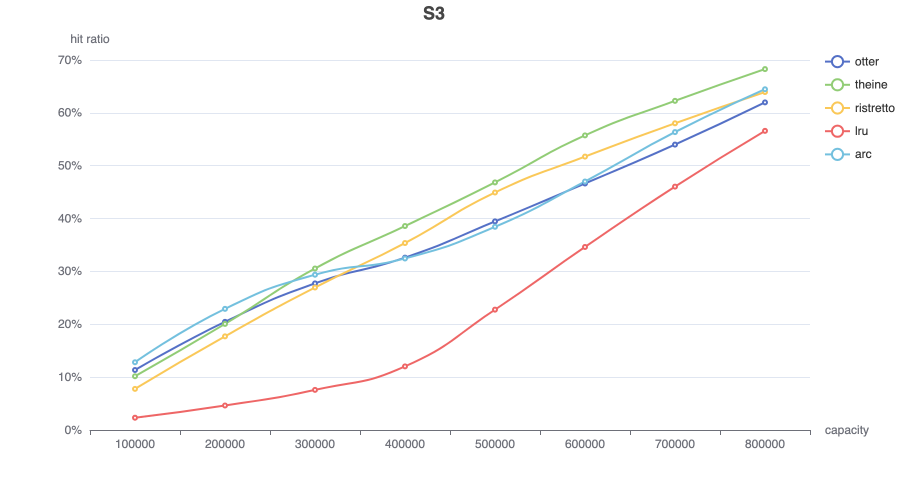
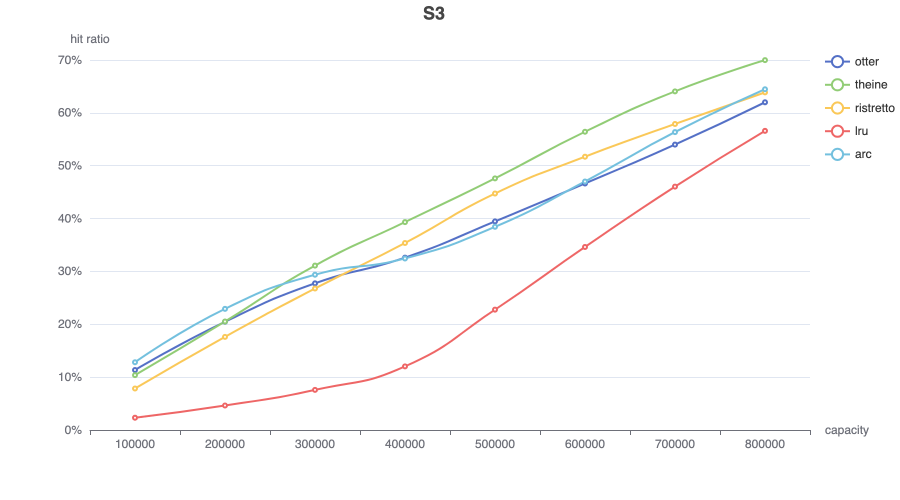
improve sketch index select (#54)

diff --git a/internal/sketch.go b/internal/sketch.go
@@ -56,14 +56,15 @@ func (s *CountMinSketch) CountMinSketchPersist() *CountMinSketchPersist {
 }
 
 // indexOf return table index and counter index together
-func (s *CountMinSketch) indexOf(h uint64, block uint64, offset uint8) (uint, uint) {
-	counterHash := h + uint64(1+offset)*(h>>32)
+func (s *CountMinSketch) indexOf(counterHash uint64, block uint64, offset uint8) (uint, uint) {
+	h := counterHash >> (offset << 3)
 	// max block + 7(8 * 8 bytes), fit 64 bytes cache line
-	index := block + counterHash&1 + uint64(offset<<1)
-	return uint(index), uint((counterHash & 0xF) << 2)
+	index := block + h&1 + uint64(offset<<1)
+	return uint(index), uint((h >> 1) & 0xf)
 }
 
 func (s *CountMinSketch) inc(index uint, offset uint) bool {
+	offset = offset << 2
 	mask := uint64(0xF << offset)
 	v := s.Table[index].Load()
 	if v&mask != mask {
@@ -74,13 +75,13 @@ func (s *CountMinSketch) inc(index uint, offset uint) bool {
 }
 
 func (s *CountMinSketch) Add(h uint64) bool {
-	hn := spread(h)
-	block := (hn & uint64(s.BlockMask)) << 3
-	hc := rehash(h)
-	index0, offset0 := s.indexOf(hc, block, 0)
-	index1, offset1 := s.indexOf(hc, block, 1)
-	index2, offset2 := s.indexOf(hc, block, 2)
-	index3, offset3 := s.indexOf(hc, block, 3)
+	blockHash := spread(h)
+	block := (blockHash & uint64(s.BlockMask)) << 3
+	counterHash := rehash(h)
+	index0, offset0 := s.indexOf(counterHash, block, 0)
+	index1, offset1 := s.indexOf(counterHash, block, 1)
+	index2, offset2 := s.indexOf(counterHash, block, 2)
+	index3, offset3 := s.indexOf(counterHash, block, 3)
 
 	added := s.inc(index0, offset0)
 	added = s.inc(index1, offset1) || added
@@ -122,6 +123,7 @@ func (s *CountMinSketch) reset() {
 	for i := range s.Table {
 		v := s.Table[i].Load()
 		count += bits.OnesCount64(v & oneMask)
+
 		s.Table[i].Store((v >> 1) & resetMask)
 	}
 	s.Additions = (s.Additions - uint(count>>2)) >> 1
@@ -129,8 +131,27 @@ func (s *CountMinSketch) reset() {
 
 func (s *CountMinSketch) count(h uint64, block uint64, offset uint8) uint {
 	index, off := s.indexOf(h, block, offset)
+	off = off << 2
 	count := (s.Table[index].Load() >> off) & 0xF
 	return uint(count)
+}
+
+// used in test
+func uint64ToBase10Slice(n uint64) []int {
+	result := make([]int, 16)
+	for i := 0; i < 16; i++ {
+		result[15-i] = int((n >> (i * 4)) & 0xF)
+	}
+	return result
+}
+
+// used in test
+func (s *CountMinSketch) counters() [][]int {
+	all := [][]int{}
+	for i := 0; i < len(s.Table); i++ {
+		all = append(all, uint64ToBase10Slice(s.Table[i].Load()))
+	}
+	return all
 }
 
 func min(a, b uint) uint {
@@ -163,7 +184,7 @@ func (s *CountMinSketch) EnsureCapacity(size uint) {
 	newSize := next2Power(size)
 	s.mu.Lock()
 	s.Table = make([]atomic.Uint64, newSize)
-	s.SampleSize = 10 * size
+	s.SampleSize = 10 * newSize
 	s.BlockMask = uint((len(s.Table) >> 3) - 1)
 	s.Additions = 0
 	s.mu.Unlock()

diff --git a/internal/sketch_test.go b/internal/sketch_test.go
@@ -19,14 +19,12 @@ func TestSketch_EnsureCapacity(t *testing.T) {
 
 func TestSketch_Basic(t *testing.T) {
 	sketch := NewCountMinSketch()
-	sketch.EnsureCapacity(100)
-	require.Equal(t, 128, len(sketch.Table))
-	require.Equal(t, uint(1000), sketch.SampleSize)
-	// override sampleSize so test won't reset
-	sketch.SampleSize = 5120
+	sketch.EnsureCapacity(10000)
+	require.Equal(t, 16384, len(sketch.Table))
+	require.Equal(t, uint(163840), sketch.SampleSize)
 
 	failed := 0
-	for i := 0; i < 500; i++ {
+	for i := 0; i < 10000; i++ {
 		key := fmt.Sprintf("key:%d", i)
 		keyh := xxhash.Sum64String(key)
 		sketch.Add(keyh)
@@ -42,15 +40,17 @@ func TestSketch_Basic(t *testing.T) {
 
 		es1 := sketch.Estimate(keyh)
 		es2 := sketch.Estimate(keyh2)
-		if es2 > es1 {
+		if es1 != 5 {
+			failed++
+		}
+		if es2 != 3 {
 			failed++
 		}
 		require.True(t, es1 >= 5)
 		require.True(t, es2 >= 3)
 
 	}
-	require.True(t, float32(failed)/4000 < 0.1)
-	require.True(t, sketch.Additions > 3500)
+	require.True(t, failed < 40)
 }
 
 func TestSketch_ResetFreq(t *testing.T) {
@@ -63,6 +63,11 @@ func TestSketch_ResetFreq(t *testing.T) {
 	require.Equal(t, 15, int(sketch.Estimate(keyh)))
 	sketch.reset()
 	require.Equal(t, 7, int(sketch.Estimate(keyh)))
+	for _, cs := range sketch.counters() {
+		for _, c := range cs {
+			require.Equal(t, c, 7)
+		}
+	}
 
 }
 
@@ -70,7 +75,7 @@ func TestSketch_ResetAddition(t *testing.T) {
 	sketch := NewCountMinSketch()
 	sketch.EnsureCapacity(100)
 	require.Equal(t, 128, len(sketch.Table))
-	require.Equal(t, uint(1000), sketch.SampleSize)
+	require.Equal(t, uint(1280), sketch.SampleSize)
 	// override sampleSize so test won't reset
 	sketch.SampleSize = 5120
 
